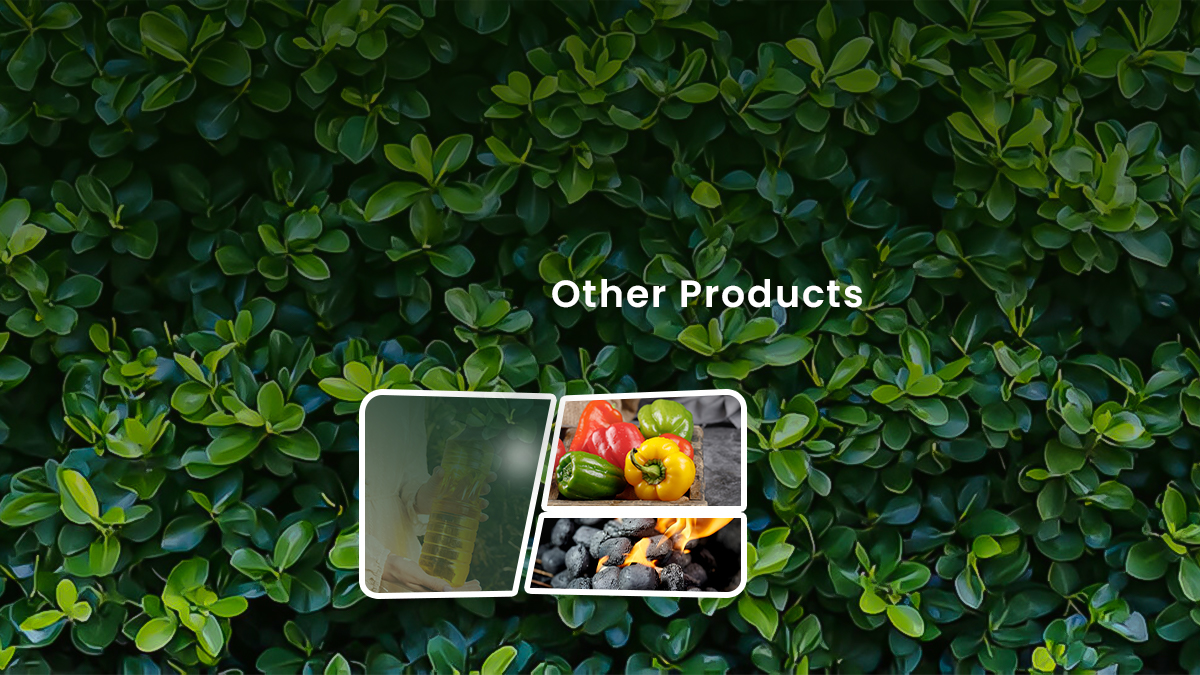
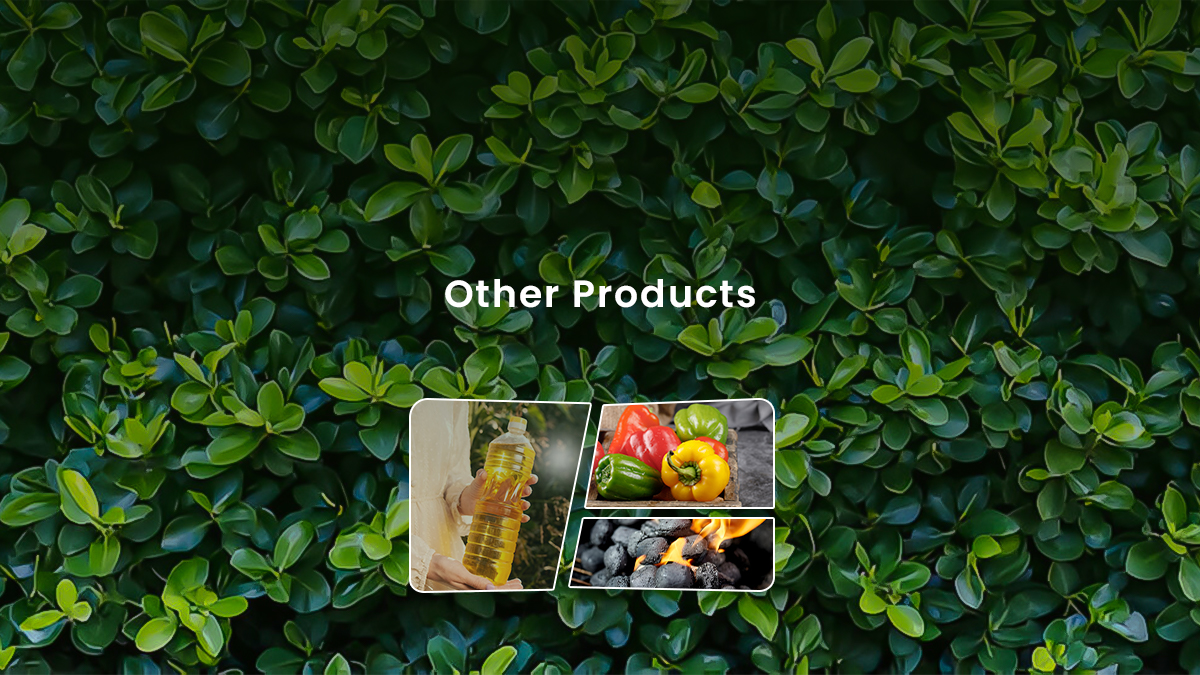
finished

Changed region(s): [[0.2775, 0.56, 0.6475, 0.9022], [0.37, 0.4044, 0.74, 0.4667]]

diff --git a/other.html b/other.html
@@ -68,18 +68,10 @@
     <!-- Hero Cover Section -->
     <section class="hero-cover">
       <picture>
-        <!-- Mobile Image (shows on screens up to 768px) -->
+        <!-- Mobile Image (shows on screens up to 768px) -->          
         <source 
-          media="(max-width: 768px)" 
-          srcset="assets/img/cover/mobile1/othermobile111.jpg">
-
-        <source 
-          media="(max-width: 991px)" 
-          srcset="assets/img/cover/mobile2/othermobile2.jpg">
-
-        <source 
-          media="(max-width: 1400px)" 
-          srcset="assets/img/cover/mobile3/othermobile3.jpg">
+          media="(max-width: 1500px)" 
+          srcset="assets/img/cover/mobile1/othermobile11.jpg">
         
         <!-- Default/Desktop Image -->
         <img 

diff --git a/cocoPeat.html b/cocoPeat.html
@@ -73,16 +73,8 @@
       <picture>
         <!-- Mobile Image (shows on screens up to 768px) -->
         <source 
-          media="(max-width: 768px)" 
-          srcset="assets/img/cover/mobile1/cocopeatmobile1.jpg">
-
-        <source 
-          media="(max-width: 991px)" 
-          srcset="assets/img/cover/mobile2/cocopeatmobile2.jpg">
-
-        <source 
-          media="(max-width: 1400px)" 
-          srcset="assets/img/cover/mobile3/cocopeatmobile3.jpg">
+          media="(max-width: 1500px)" 
+          srcset="assets/img/cover/mobile1/othermobile11.jpg">
           
         <!-- Default/Desktop Image -->
         <img 

diff --git a/coir.html b/coir.html
@@ -73,16 +73,8 @@
       <picture>
         <!-- Mobile Image (shows on screens up to 768px) -->
         <source 
-          media="(max-width: 768px)" 
-          srcset="assets/img/cover/mobile1/coirmobile1.jpg">
-
-        <source 
-          media="(max-width: 991px)" 
-          srcset="assets/img/cover/mobile2/coirmobile2.jpg">
-
-        <source 
-          media="(max-width: 1400px)" 
-          srcset="assets/img/cover/mobile3/coirmobile3.jpg">
+          media="(max-width: 1500px)" 
+          srcset="assets/img/cover/mobile1/coirmobile11.jpg">
         
         <!-- Default/Desktop Image -->
         <img 

diff --git a/huskChips.html b/huskChips.html
@@ -73,16 +73,8 @@
       <picture>
         <!-- Mobile Image (shows on screens up to 768px) -->
         <source 
-          media="(max-width: 768px)" 
-          srcset="assets/img/cover/mobile1/huskmobile1.jpg">
-
-        <source 
-          media="(max-width: 991px)" 
-          srcset="assets/img/cover/mobile2/huskmobile2.jpg">
-
-        <source 
-          media="(max-width: 1400px)" 
-          srcset="assets/img/cover/mobile3/huskmobile3.jpg">
+          media="(max-width: 1500px)" 
+          srcset="assets/img/cover/mobile1/huskmobile11.jpg">
         
         <!-- Default/Desktop Image -->
         <img 
